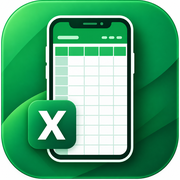
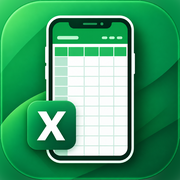
アプリアイコンの白い余白を除去 (v1.1.2)
- 元画像から緑の角丸部分だけを切り出し、四隅まで緑で埋めた全面塗りの
  アイコンに作り直し (iOS のホーム画面で白い縁が出ないように)

Claude-Session: https://claude.ai/code/session_018zazrENuKmapNS2dUQAKev

diff --git a/sw.js b/sw.js
@@ -1,5 +1,5 @@
 /* Service worker: caches the app shell so it works offline once visited. */
-const VERSION = 'v1.1.1';
+const VERSION = 'v1.1.2';
 const CACHE = 'orderviewer-' + VERSION;
 const ASSETS = [
   './', './index.html', './css/app.css', './js/app.js', './js/numfmt.js', './js/xlsx-lite.js',

diff --git a/js/app.js b/js/app.js
@@ -2,7 +2,7 @@
 (function () {
   'use strict';
 
-  const APP_VERSION = '1.1.1';
+  const APP_VERSION = '1.1.2';
   const APP_DATE = '2026-09-07';
   const START_SHEET = '直近';
   const BOUNDARY_SHEET = '所要(調整)'; // sheets to the right of this are targets
